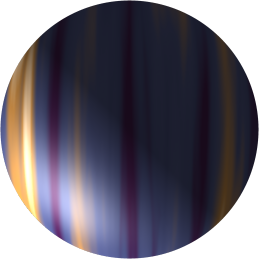
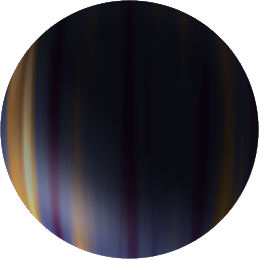
Improved HUD shape rendering (positioning and size independence)

diff --git a/core/src/org/bk/graphics/Shape.java b/core/src/org/bk/graphics/Shape.java
@@ -54,9 +54,13 @@ public class Shape extends Widget {
         }
         super.draw(batch, parentAlpha);
         batch.end();
+        float renderSize = Vector2.len((maxX - minX), (maxY - minY));
+        float scale = Math.min(getWidth() / renderSize, getHeight() / renderSize);
         shapeRenderer.begin(ShapeRenderer.ShapeType.Line);
         tm.set(shapeRenderer.getTransformMatrix());
-        shapeRenderer.translate(-minX + getX(), -minY + getY(), 0);
+        shapeRenderer.translate(renderSize / 2 * scale + getX(), renderSize / 2 * scale + getY(), 0);
+        shapeRenderer.scale(scale, scale, 1);
+
         shapeRenderer.rotate(0, 0, 1, rotation);
         for (float[] f: shape) {
             shapeRenderer.polygon(f);
@@ -64,15 +68,5 @@ public class Shape extends Widget {
         shapeRenderer.setTransformMatrix(tm);
         shapeRenderer.end();
         batch.begin();
-    }
-
-    @Override
-    public float getPrefWidth() {
-        return maxX - minX;
-    }
-
-    @Override
-    public float getPrefHeight() {
-        return maxY - minY;
     }
 }

diff --git a/core/src/org/bk/graphics/Hud.java b/core/src/org/bk/graphics/Hud.java
@@ -60,12 +60,12 @@ public class Hud extends WidgetGroup {
 
     private void topLeft(Assets assets, Table tl) {
         targetShipOutline = new Shape(game.shape);
-        tl.add(targetShipOutline);
+        tl.add(targetShipOutline).size(150);
     }
 
     private void topRight(Assets assets, Table tr) {
         playerShipOutline = new Shape(game.shape);
-        tr.add(playerShipOutline);
+        tr.add(playerShipOutline).size(100);
     }
 
     private void bottomRight(Assets assets, Table br) {
